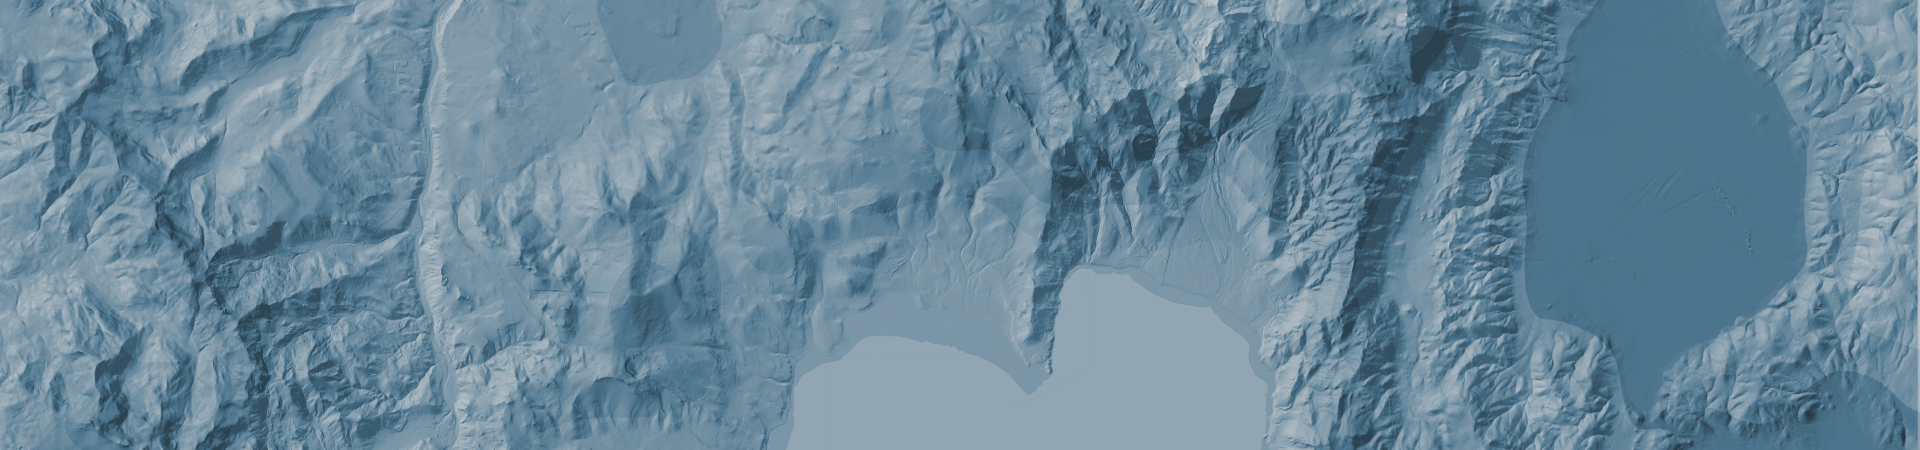
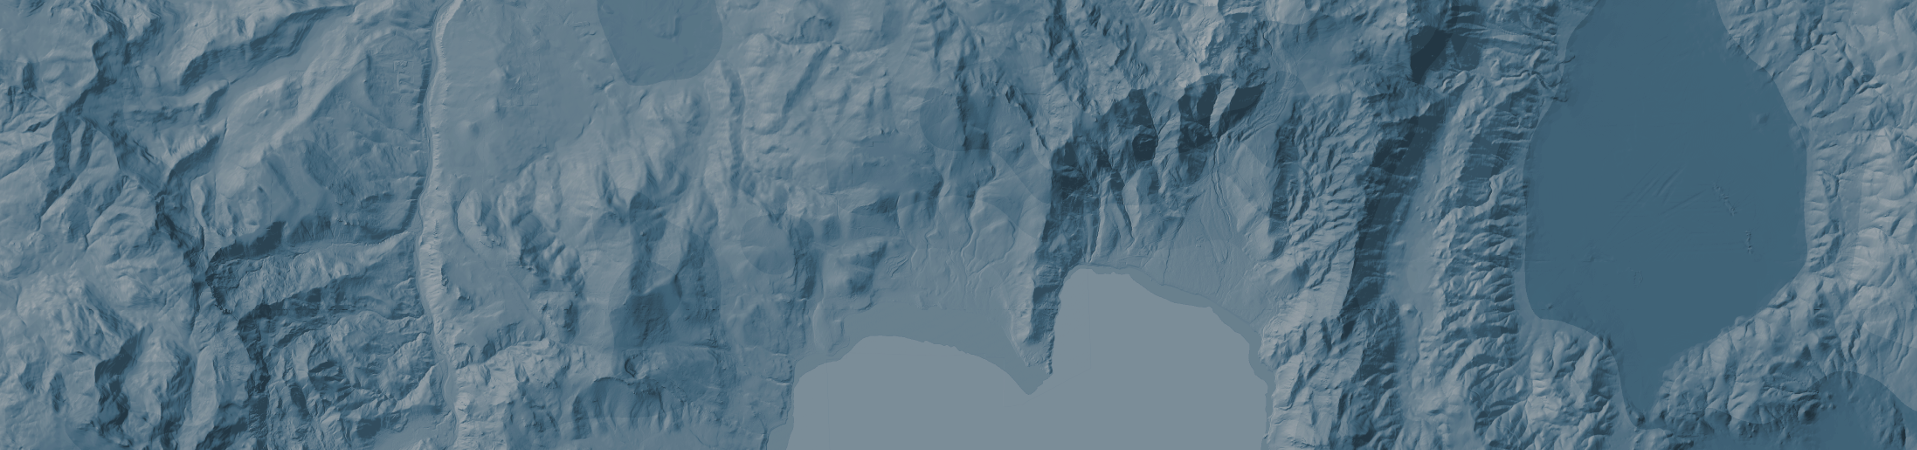
Use JPEG version; rev both JPEG and PNG

diff --git a/css/home.css b/css/home.css
@@ -2,7 +2,7 @@ body{margin:0}
 .smaller{padding:0px 0px}
 @media screen and (max-width: 1024px){.smaller{padding:0px 20px}
 }
-#home-banner{background:url("../img/TerrainToolsSample_HD_colorized_cub.png") repeat top right #0e1f2f;color:white;height:auto}
+#home-banner{background:url("../img/TerrainToolsSample_HD_colorized_cub.jpg") repeat top right #0e1f2f;color:white;height:auto}
 @media screen and (max-width: 1320px){#home-banner{background-position:top left}
 }
 .larger-icon{font-size:200%;vertical-align:-.25em;padding-right:4px}
